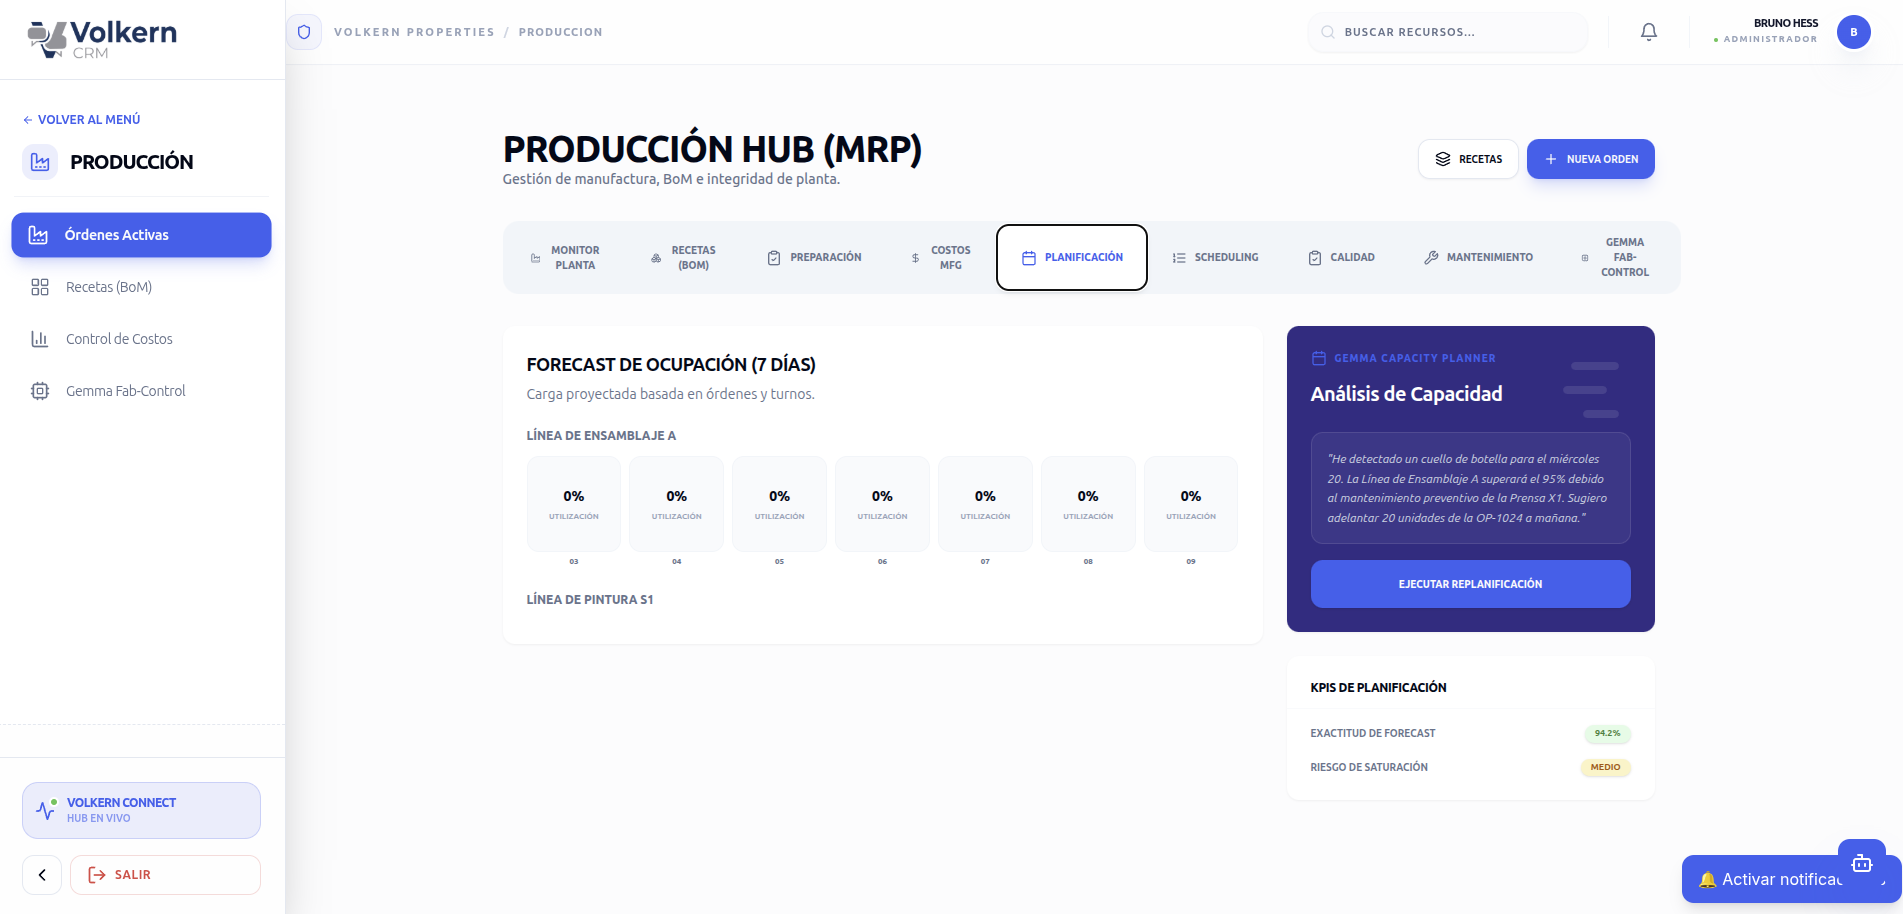
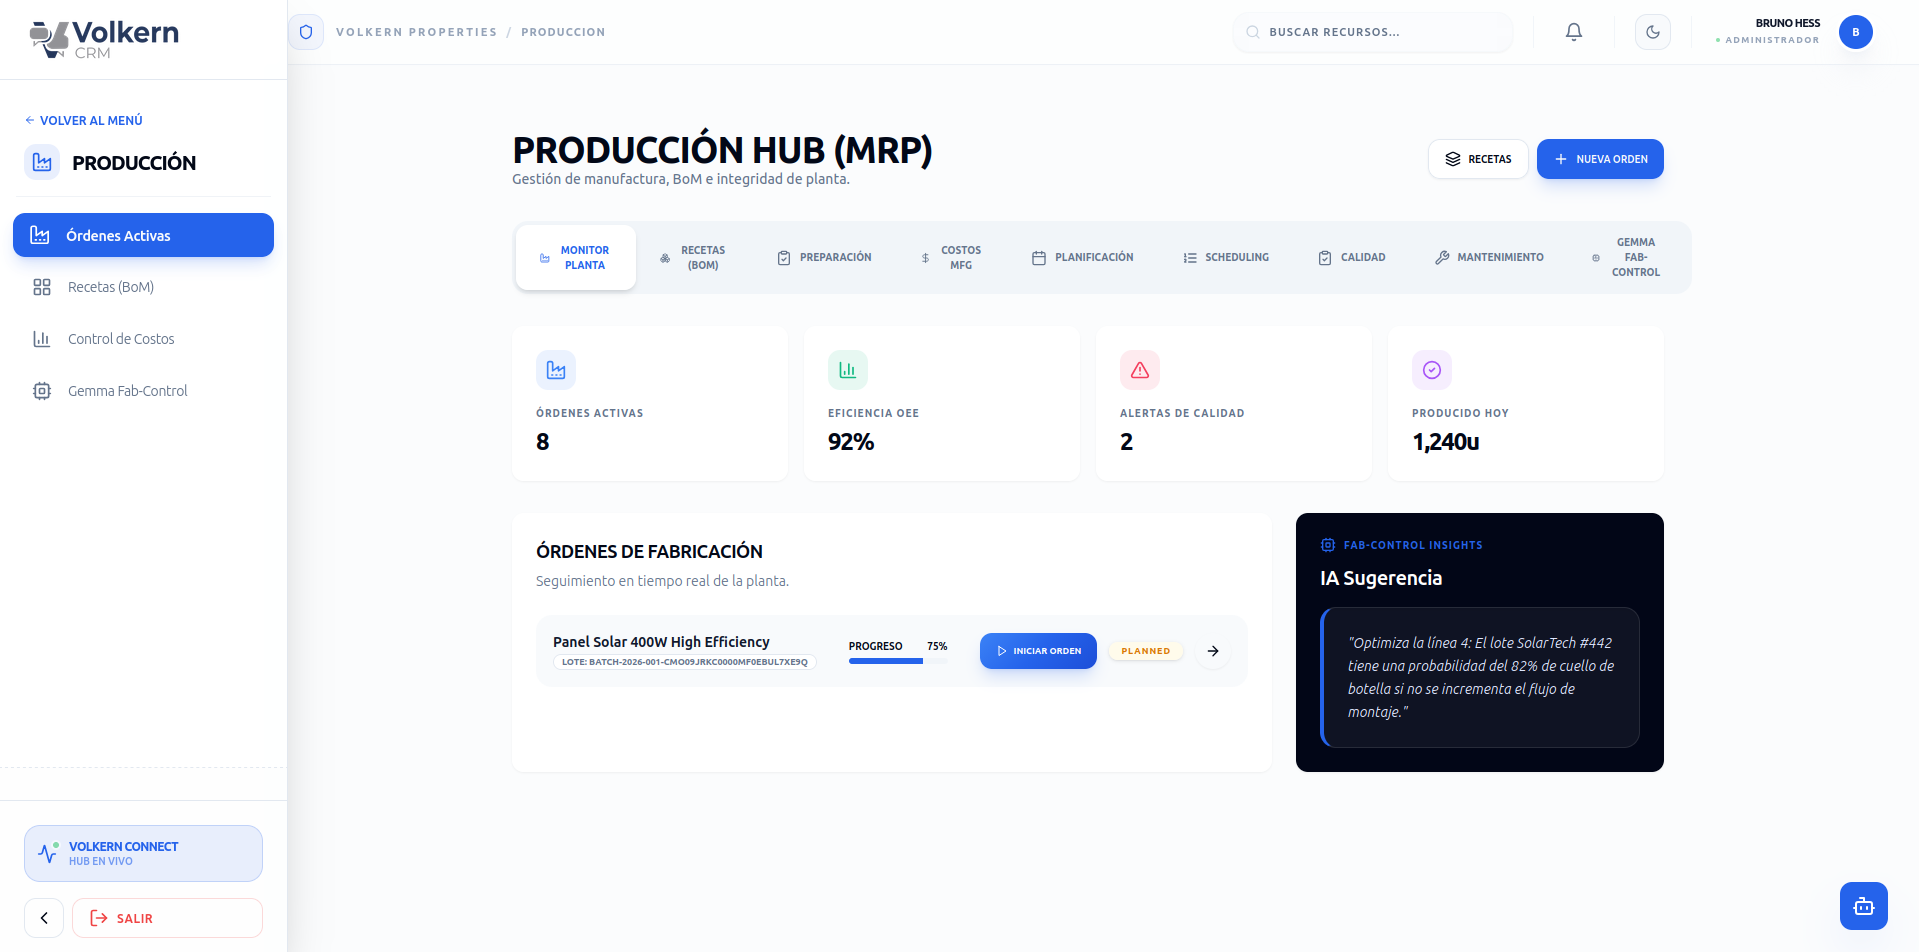
feat: add background images to hero sections of all 8 vertical landing pages

diff --git a/nextjs_space/components/public/RealEstateLanding.tsx b/nextjs_space/components/public/RealEstateLanding.tsx
@@ -115,6 +115,15 @@ export default function RealEstateLanding() {
          HERO
       ════════════════════════════════════════════════════════════════════ */}
       <section className="relative min-h-[90vh] flex items-center justify-center pt-24 overflow-hidden bg-slate-950">
+        {/* Background image */}
+        <div className="absolute inset-0">
+          <img
+            src="/real-estate.png"
+            alt=""
+            className="w-full h-full object-cover"
+          />
+          <div className="absolute inset-0 bg-gradient-to-b from-slate-950/70 via-slate-950/60 to-slate-950/90" />
+        </div>
         <div className="absolute top-1/4 left-1/2 -translate-x-1/2 w-[900px] h-[500px] bg-emerald-600/15 blur-[140px] rounded-full pointer-events-none" />
 
         <div className="container mx-auto px-6 relative z-10 text-center">

diff --git a/nextjs_space/components/public/AccountingLanding.tsx b/nextjs_space/components/public/AccountingLanding.tsx
@@ -97,6 +97,15 @@ export default function AccountingLanding() {
          HERO
       ════════════════════════════════════════════════════════════════════ */}
       <section className="relative min-h-[90vh] flex items-center justify-center pt-24 overflow-hidden bg-slate-950">
+        {/* Background image */}
+        <div className="absolute inset-0">
+          <img
+            src="/contable.png"
+            alt=""
+            className="w-full h-full object-cover"
+          />
+          <div className="absolute inset-0 bg-gradient-to-b from-slate-950/70 via-slate-950/60 to-slate-950/90" />
+        </div>
         <div className="absolute top-1/4 left-1/2 -translate-x-1/2 w-[900px] h-[500px] bg-blue-600/15 blur-[140px] rounded-full pointer-events-none" />
 
         <div className="container mx-auto px-6 relative z-10 text-center">

diff --git a/nextjs_space/components/public/LogisticaLanding.tsx b/nextjs_space/components/public/LogisticaLanding.tsx
@@ -88,6 +88,15 @@ export default function LogisticaLanding() {
     <>
       {/* ═══ HERO ═══ */}
       <section className="relative min-h-[90vh] flex items-center justify-center pt-24 overflow-hidden bg-slate-950">
+        {/* Background image */}
+        <div className="absolute inset-0">
+          <img
+            src="/produccion-portada.png"
+            alt=""
+            className="w-full h-full object-cover"
+          />
+          <div className="absolute inset-0 bg-gradient-to-b from-slate-950/70 via-slate-950/60 to-slate-950/90" />
+        </div>
         <div className="absolute top-1/4 left-1/2 -translate-x-1/2 w-[900px] h-[500px] bg-yellow-600/15 blur-[140px] rounded-full pointer-events-none" />
         <div className="container mx-auto px-6 relative z-10 text-center">
           <motion.div initial={{ opacity: 0, y: 30 }} animate={{ opacity: 1, y: 0 }} transition={{ duration: 0.8, ease: 'easeOut' }}>

diff --git a/nextjs_space/components/public/IndustriaLanding.tsx b/nextjs_space/components/public/IndustriaLanding.tsx
@@ -89,6 +89,15 @@ export default function IndustriaLanding() {
     <>
       {/* ═══ HERO ═══ */}
       <section className="relative min-h-[90vh] flex items-center justify-center pt-24 overflow-hidden bg-slate-950">
+        {/* Background image */}
+        <div className="absolute inset-0">
+          <img
+            src="/industria.png"
+            alt=""
+            className="w-full h-full object-cover"
+          />
+          <div className="absolute inset-0 bg-gradient-to-b from-slate-950/70 via-slate-950/60 to-slate-950/90" />
+        </div>
         <div className="absolute top-1/4 left-1/2 -translate-x-1/2 w-[900px] h-[500px] bg-orange-600/15 blur-[140px] rounded-full pointer-events-none" />
         <div className="container mx-auto px-6 relative z-10 text-center">
           <motion.div initial={{ opacity: 0, y: 30 }} animate={{ opacity: 1, y: 0 }} transition={{ duration: 0.8, ease: 'easeOut' }}>

diff --git a/nextjs_space/components/public/MarketingLanding.tsx b/nextjs_space/components/public/MarketingLanding.tsx
@@ -89,6 +89,15 @@ export default function MarketingLanding() {
     <>
       {/* ═══ HERO ═══ */}
       <section className="relative min-h-[90vh] flex items-center justify-center pt-24 overflow-hidden bg-slate-950">
+        {/* Background image */}
+        <div className="absolute inset-0">
+          <img
+            src="/marketing.png"
+            alt=""
+            className="w-full h-full object-cover"
+          />
+          <div className="absolute inset-0 bg-gradient-to-b from-slate-950/70 via-slate-950/60 to-slate-950/90" />
+        </div>
         <div className="absolute top-1/4 left-1/2 -translate-x-1/2 w-[900px] h-[500px] bg-purple-600/15 blur-[140px] rounded-full pointer-events-none" />
         <div className="container mx-auto px-6 relative z-10 text-center">
           <motion.div initial={{ opacity: 0, y: 30 }} animate={{ opacity: 1, y: 0 }} transition={{ duration: 0.8, ease: 'easeOut' }}>

diff --git a/nextjs_space/components/public/AcademyLanding.tsx b/nextjs_space/components/public/AcademyLanding.tsx
@@ -89,6 +89,15 @@ export default function AcademyLanding() {
     <>
       {/* ═══ HERO ═══ */}
       <section className="relative min-h-[90vh] flex items-center justify-center pt-24 overflow-hidden bg-slate-950">
+        {/* Background image */}
+        <div className="absolute inset-0">
+          <img
+            src="/academia.png"
+            alt=""
+            className="w-full h-full object-cover"
+          />
+          <div className="absolute inset-0 bg-gradient-to-b from-slate-950/70 via-slate-950/60 to-slate-950/90" />
+        </div>
         <div className="absolute top-1/4 left-1/2 -translate-x-1/2 w-[900px] h-[500px] bg-amber-600/15 blur-[140px] rounded-full pointer-events-none" />
         <div className="container mx-auto px-6 relative z-10 text-center">
           <motion.div initial={{ opacity: 0, y: 30 }} animate={{ opacity: 1, y: 0 }} transition={{ duration: 0.8, ease: 'easeOut' }}>

diff --git a/nextjs_space/components/public/RRHHLanding.tsx b/nextjs_space/components/public/RRHHLanding.tsx
@@ -90,6 +90,15 @@ export default function RRHHLanding() {
     <>
       {/* ═══ HERO ═══ */}
       <section className="relative min-h-[90vh] flex items-center justify-center pt-24 overflow-hidden bg-slate-950">
+        {/* Background image */}
+        <div className="absolute inset-0">
+          <img
+            src="/rrhh-portada.png"
+            alt=""
+            className="w-full h-full object-cover"
+          />
+          <div className="absolute inset-0 bg-gradient-to-b from-slate-950/70 via-slate-950/60 to-slate-950/90" />
+        </div>
         <div className="absolute top-1/4 left-1/2 -translate-x-1/2 w-[900px] h-[500px] bg-rose-600/15 blur-[140px] rounded-full pointer-events-none" />
         <div className="container mx-auto px-6 relative z-10 text-center">
           <motion.div initial={{ opacity: 0, y: 30 }} animate={{ opacity: 1, y: 0 }} transition={{ duration: 0.8, ease: 'easeOut' }}>

diff --git a/nextjs_space/components/public/CrmVentasLanding.tsx b/nextjs_space/components/public/CrmVentasLanding.tsx
@@ -90,6 +90,15 @@ export default function CrmVentasLanding() {
     <>
       {/* ═══ HERO ═══ */}
       <section className="relative min-h-[90vh] flex items-center justify-center pt-24 overflow-hidden bg-slate-950">
+        {/* Background image */}
+        <div className="absolute inset-0">
+          <img
+            src="/ventas.png"
+            alt=""
+            className="w-full h-full object-cover"
+          />
+          <div className="absolute inset-0 bg-gradient-to-b from-slate-950/70 via-slate-950/60 to-slate-950/90" />
+        </div>
         <div className="absolute top-1/4 left-1/2 -translate-x-1/2 w-[900px] h-[500px] bg-cyan-600/15 blur-[140px] rounded-full pointer-events-none" />
         <div className="container mx-auto px-6 relative z-10 text-center">
           <motion.div initial={{ opacity: 0, y: 30 }} animate={{ opacity: 1, y: 0 }} transition={{ duration: 0.8, ease: 'easeOut' }}>
